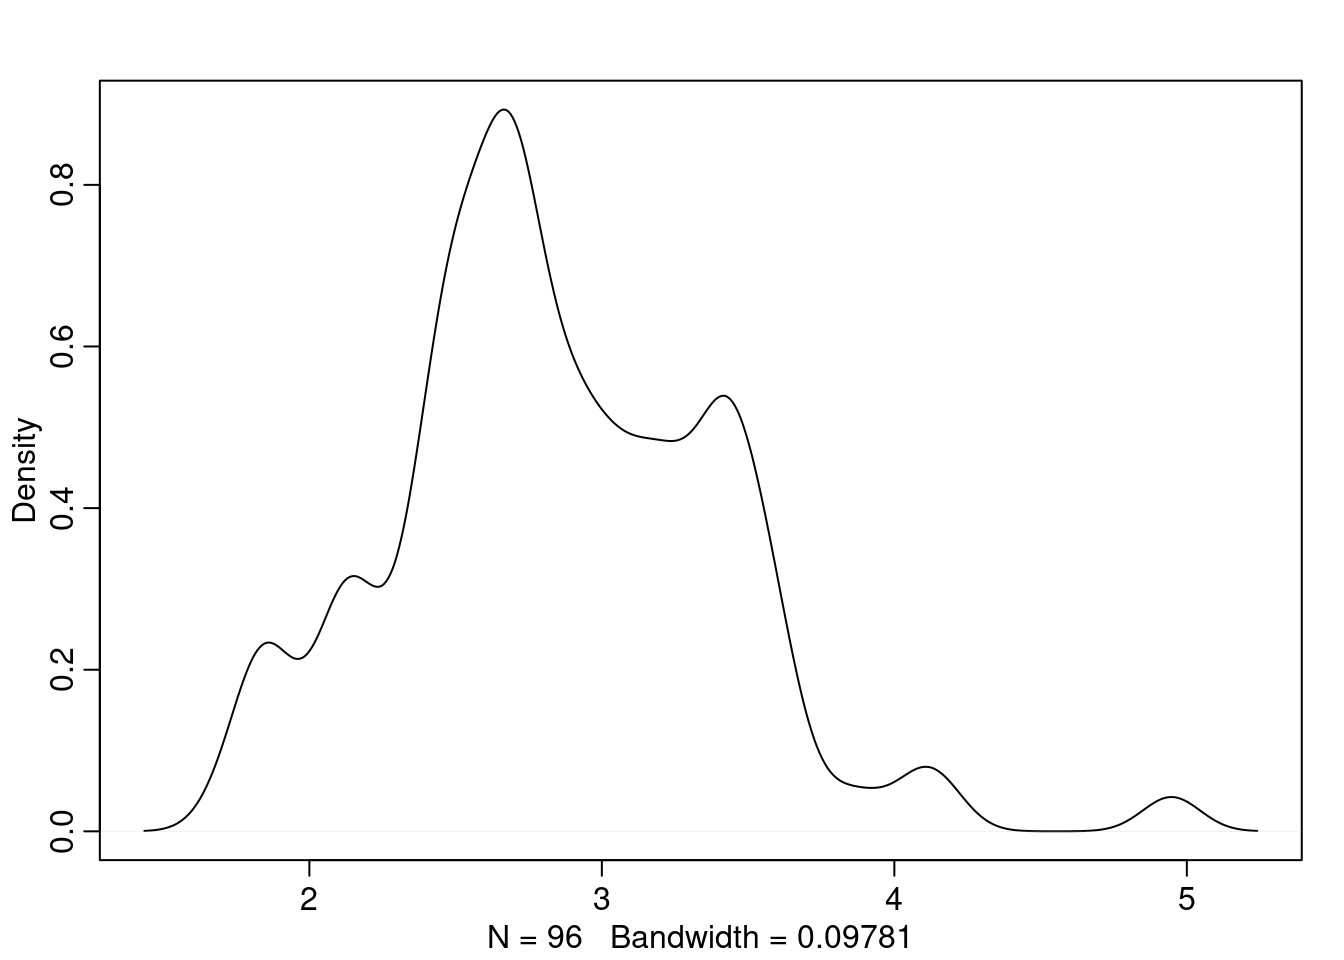
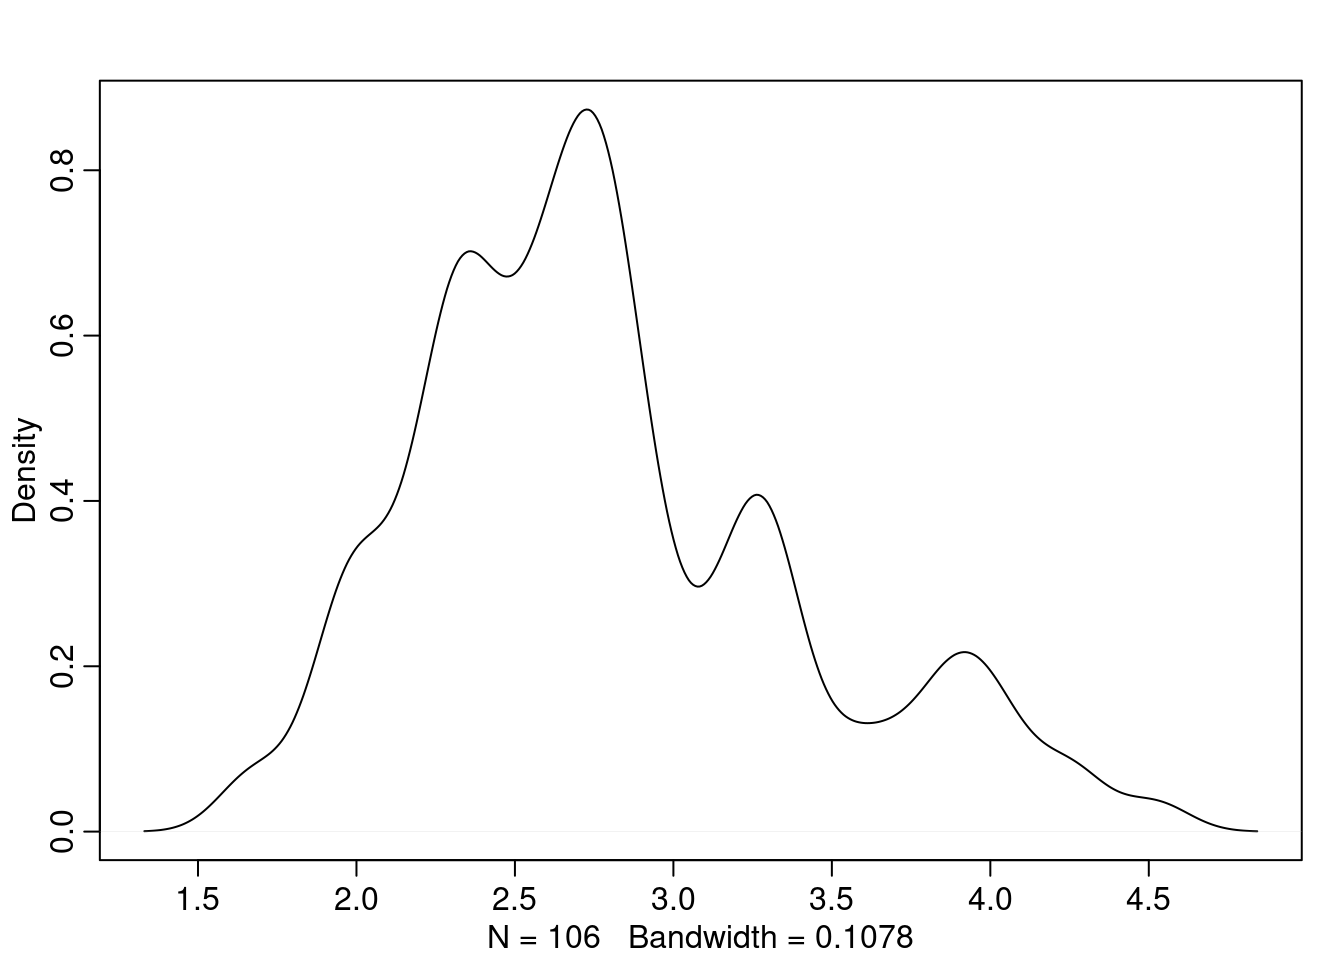
Minor Change

diff --git a/blog/poli_agency_model/poli_agency_model.html b/blog/poli_agency_model/poli_agency_model.html
@@ -108,7 +108,7 @@ pre > code.sourceCode > span > a:first-child::before { text-decoration: underlin
 <span id="cb1-3"><a href="#cb1-3" aria-hidden="true" tabindex="-1"></a>s <span class="ot">&lt;-</span> <span class="fu">sample</span>(<span class="fu">c</span>(<span class="dv">0</span>,<span class="dv">1</span>), N, <span class="at">replace =</span> <span class="cn">TRUE</span>)</span>
 <span id="cb1-4"><a href="#cb1-4" aria-hidden="true" tabindex="-1"></a><span class="fu">head</span>(s, <span class="at">n =</span> <span class="dv">10</span>)</span></code><button title="Copy to Clipboard" class="code-copy-button"><i class="bi"></i></button></pre></div>
 <div class="cell-output cell-output-stdout">
-<pre><code> [1] 1 1 1 1 0 1 0 0 1 1</code></pre>
+<pre><code> [1] 1 1 0 0 1 1 1 1 1 0</code></pre>
 </div>
 </div>
 <p>Voters receive a pay-off if <span class="math inline">\(e_t = s_t\)</span> and <span class="math inline">\(0\)</span> otherwise. There is a discounting factor <span class="math inline">\(\beta\)</span>, by which voters and politicians discount future returns.</p>
@@ -131,7 +131,8 @@ e_2(s,d) = (1-s_2)
 \]</span></p>
 <p>However, in period 1, there is an incentive for dissonants to act congruent. This is because the model assumes that voters are willing to re-elect a candidate if and only if they receive a payoff, which only happens if you act in a congruent fashion.</p>
 <p>This logically implies a decision rule for a dissonant to act as congruent. A dissonant politician will act as congruent if:<span class="math display">\[
-r_1 &lt; \beta(\mu+E) \\
+r_1 &lt; \beta(\mu+E)
+\]</span> <span class="math display">\[
 \lambda = G\{\beta(\mu+E)\}
 \]</span></p>
 <p>In words: if the rent (explicitly bribe) I receive in period 1 is less than my discounted returns from period 2, I will want to be in office in period 2. For that I must be re-elected and for that I must act as congruent in period 1. If <span class="math inline">\(\lambda\)</span> is the probability that a dissonant acts as congruent, then lambda can be obtained from the CDF of <span class="math inline">\(G\)</span>.</p>
@@ -155,8 +156,9 @@ r_1 &lt; \beta(\mu+E) \\
 <p>With this, we can model our payoff function.</p>
 <div class="cell">
 <div class="sourceCode cell-code" id="cb6"><pre class="sourceCode r code-with-copy"><code class="sourceCode r"><span id="cb6-1"><a href="#cb6-1" aria-hidden="true" tabindex="-1"></a>payoff <span class="ot">&lt;-</span> <span class="fu">vector</span>(<span class="at">length =</span> N) </span>
-<span id="cb6-2"><a href="#cb6-2" aria-hidden="true" tabindex="-1"></a><span class="co"># delta here is 1 and no payoff is 0</span></span>
-<span id="cb6-3"><a href="#cb6-3" aria-hidden="true" tabindex="-1"></a>payoff <span class="ot">&lt;-</span> <span class="fu">ifelse</span>(candpool <span class="sc">==</span> <span class="dv">2</span>, <span class="fu">ifelse</span>(r_1 <span class="sc">&gt;</span> beta<span class="sc">*</span>(<span class="fu">mean</span>(r_1) <span class="sc">+</span> E),<span class="dv">0</span>,<span class="dv">1</span>), <span class="dv">1</span>)</span></code><button title="Copy to Clipboard" class="code-copy-button"><i class="bi"></i></button></pre></div>
+<span id="cb6-2"><a href="#cb6-2" aria-hidden="true" tabindex="-1"></a>mu <span class="ot">&lt;-</span> <span class="fu">exp</span>(<span class="dv">1</span>)</span>
+<span id="cb6-3"><a href="#cb6-3" aria-hidden="true" tabindex="-1"></a><span class="co"># delta here is 1 and no payoff is 0</span></span>
+<span id="cb6-4"><a href="#cb6-4" aria-hidden="true" tabindex="-1"></a>payoff <span class="ot">&lt;-</span> <span class="fu">ifelse</span>(candpool <span class="sc">==</span> <span class="dv">2</span>, <span class="fu">ifelse</span>(r_1 <span class="sc">&gt;</span> beta<span class="sc">*</span>(mu <span class="sc">+</span> E),<span class="dv">0</span>,<span class="dv">1</span>), <span class="dv">1</span>)</span></code><button title="Copy to Clipboard" class="code-copy-button"><i class="bi"></i></button></pre></div>
 </div>
 <p>Two parameters are of utmost importance to us: <span class="math inline">\(\lambda\)</span> i.e.&nbsp;the probability that a dissonant acts as congruent, and <span class="math inline">\(\prod\)</span>, which can be written as:</p>
 <p><span class="math display">\[
@@ -177,7 +179,7 @@ r_1 &lt; \beta(\mu+E) \\
 <pre><code># A tibble: 1 × 3
   Lambda    Pi BigPi
    &lt;dbl&gt; &lt;dbl&gt; &lt;dbl&gt;
-1   0.91  0.52  0.53</code></pre>
+1   0.82  0.47  0.53</code></pre>
 </div>
 </div>
 </section>
